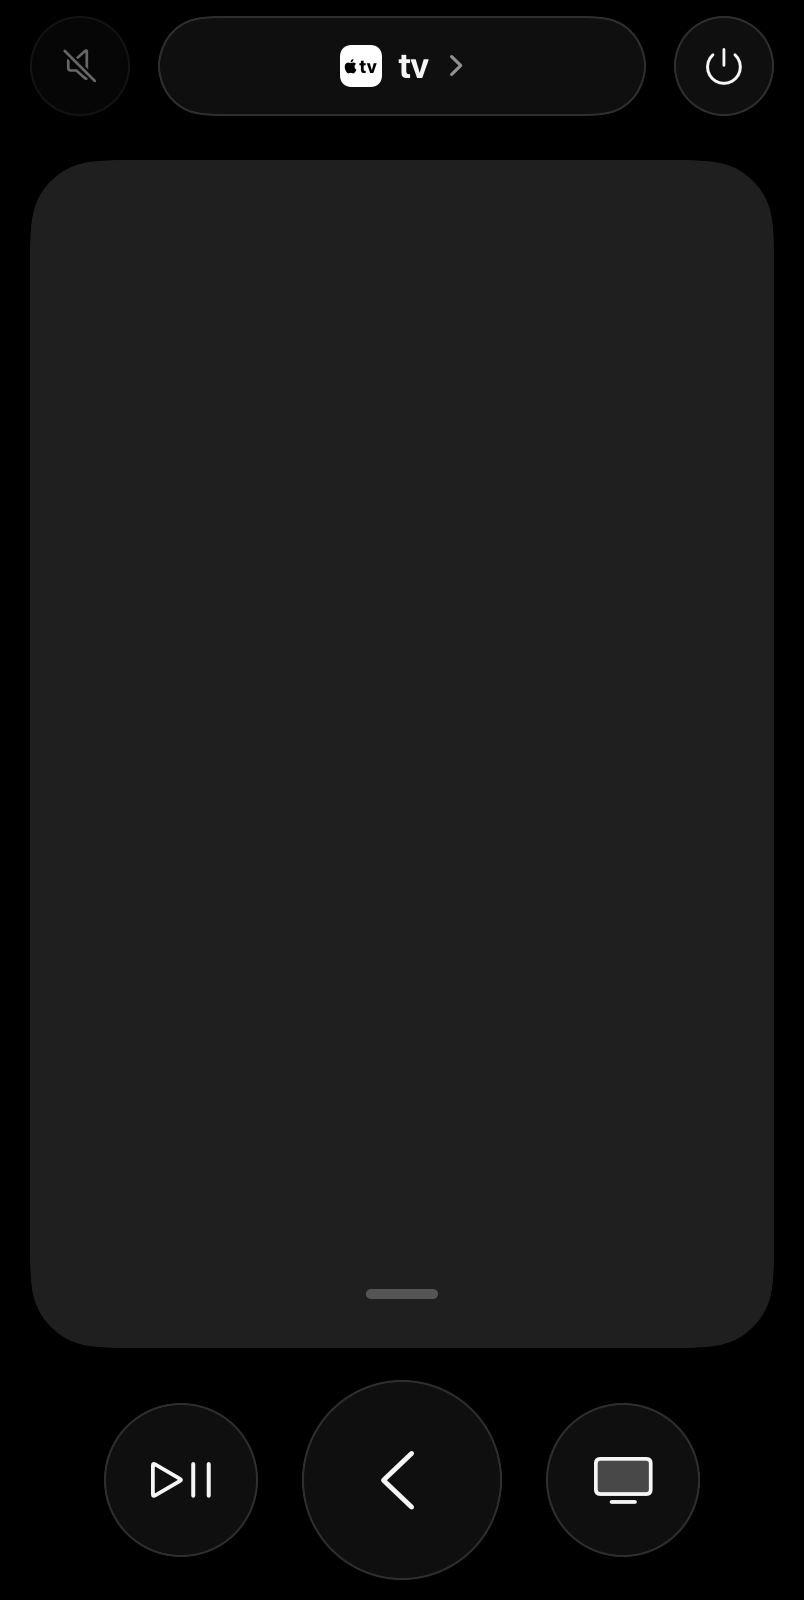
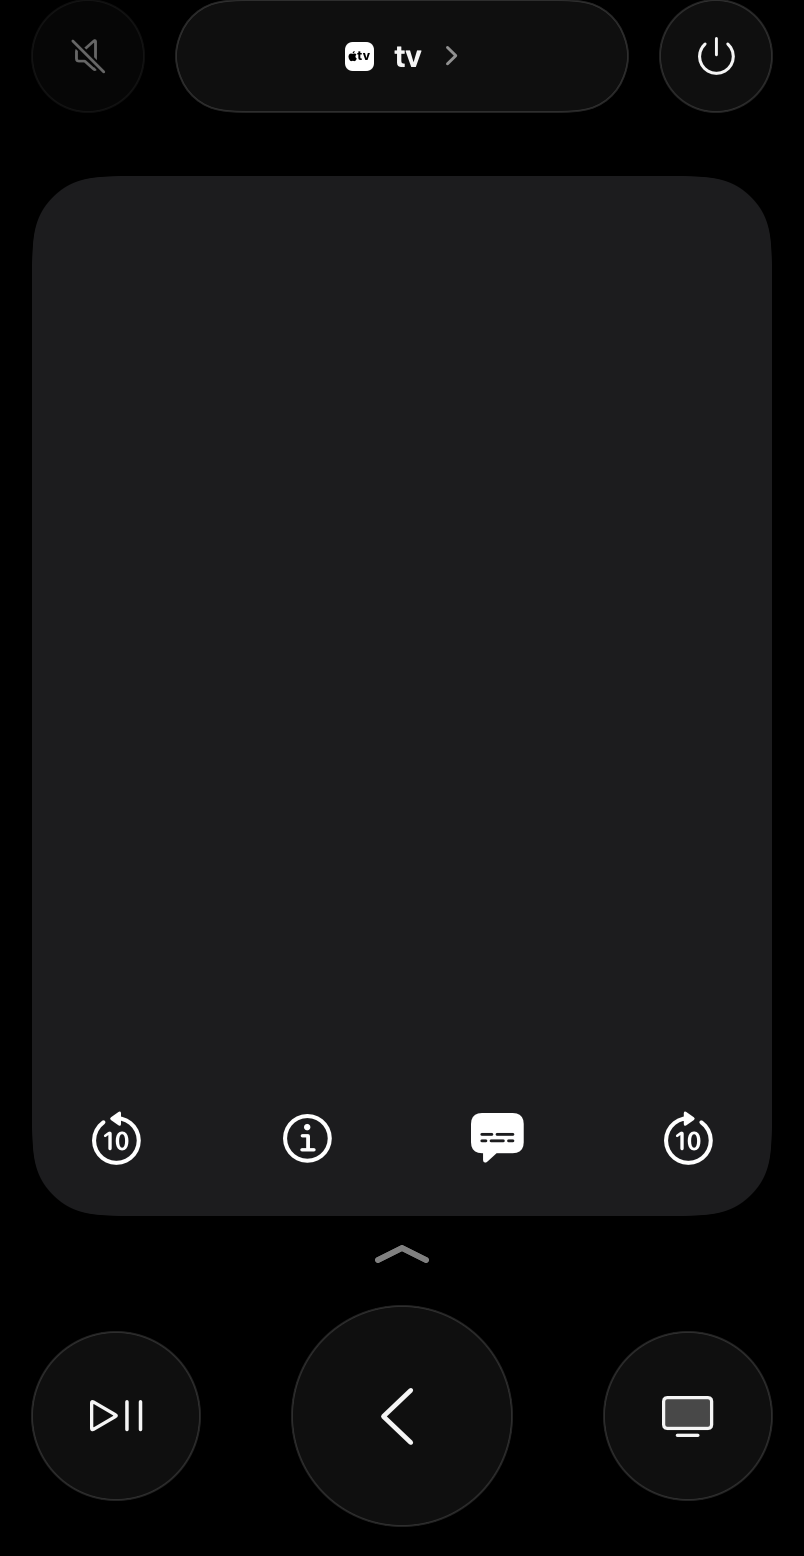
Match the Remote app layout and move playback controls onto the pad
Sizes and spacing now follow an iOS 27 Remote app screenshot, measured
to within a point: 56 pt top controls 16 pt apart, a smaller TV badge
and 15 pt device name, a 32 pt gap above a #1C1C1E touch surface, and
84 / 110 / 84 pt bottom buttons spread edge to edge.

Skip back, info, subtitles and skip forward are now plain glyphs along
the bottom of the touch surface instead of a row of circles below it.
They keep their places and dim when the player doesn't support them.
Info sends a down press to open the player's info panel. Taps beside
the icons still reach Apple TV.

The README preview is re-rendered with the new layout.

diff --git a/native/TVGlow/Views/ContentView.swift b/native/TVGlow/Views/ContentView.swift
@@ -24,15 +24,14 @@ struct ContentView: View {
 
     var body: some View {
         VStack(spacing: 0) {
-            topBar.padding(.bottom, 22)
-            AppleRemoteCard(remote: remote, showDevices: { showingDevices = true }) { statusText }
+            topBar.padding(.bottom, 32)
+            AppleRemoteCard(remote: remote, showDevices: { showingDevices = true }) { statusText } controls: { playbackBar }
                 .frame(maxHeight: .infinity)
-            if showsPlayback { playbackControls.padding(.top, 12) }
             levels
-            bottomButtons.padding(.top, 12)
+            bottomButtons.padding(.top, 11)
         }
-        .animation(.snappy(duration: 0.35), value: showsPlayback)
-        .padding(.horizontal, 15).padding(.top, 8).padding(.bottom, 10)
+        .animation(.easeInOut(duration: 0.3), value: showsPlayback)
+        .padding(.horizontal, 16).padding(.bottom, 15)
         .frame(maxWidth: 520).frame(maxWidth: .infinity, maxHeight: .infinity)
         .background { Color.black.ignoresSafeArea() }
         .foregroundStyle(GlowTheme.ink).tint(GlowTheme.accent).preferredColorScheme(.dark)
@@ -67,8 +66,8 @@ struct ContentView: View {
     }
 
     private var topBar: some View {
-        GlassGroup(spacing: 14) { HStack(spacing: 14) {
-            CircleButton(symbol: store.muted ? "speaker.slash.fill" : "speaker.slash", diameter: 50, highlighted: store.muted) {
+        GlassGroup(spacing: 16) { HStack(spacing: 16) {
+            CircleButton(symbol: store.muted ? "speaker.slash.fill" : "speaker.slash", diameter: 56, glyph: 18.5, highlighted: store.muted) {
                 feedback += 1
                 Task { await store.toggleMute() }
             }
@@ -78,22 +77,22 @@ struct ContentView: View {
             .accessibilityLabel(store.muted ? "Unmute Sonos" : "Mute Sonos").accessibilityIdentifier("muteButton")
 
             Button { showingDevices = true } label: {
-                HStack(spacing: 8) {
+                HStack(spacing: 10) {
                     TVBadge()
-                    Text(deviceName).font(.system(size: 17, weight: .semibold)).lineLimit(1)
+                    Text(deviceName).font(.system(size: 15, weight: .semibold)).lineLimit(1)
                         .contentTransition(.opacity)
                     if remote.snapshot.phase.isBusy {
                         ProgressView().controlSize(.small).tint(GlowTheme.muted)
                             .transition(.opacity.combined(with: .scale(scale: 0.6)))
                     } else {
-                        Image(systemName: "chevron.right").font(.system(size: 12, weight: .semibold)).foregroundStyle(GlowTheme.muted)
+                        Image(systemName: "chevron.right").font(.system(size: 11, weight: .semibold)).foregroundStyle(GlowTheme.muted)
                             .transition(.opacity.combined(with: .scale(scale: 0.6)))
                     }
                 }
                 .opacity(remote.connected ? 1 : 0.55)
                 .animation(.snappy(duration: 0.3), value: remote.snapshot.phase)
                 .animation(.easeInOut(duration: 0.3), value: deviceName)
-                .padding(.horizontal, 16).frame(maxWidth: .infinity).frame(height: 50)
+                .padding(.horizontal, 16).frame(maxWidth: .infinity).frame(height: 56)
                 .remoteGlass(Capsule(), interactive: true)
                 .contentShape(Capsule())
             }
@@ -104,7 +103,7 @@ struct ContentView: View {
                     .presentationCompactAdaptation(.popover)
             }
 
-            CircleButton(symbol: "power", diameter: 50, pulsing: store.tvPowerBusy, action: togglePower)
+            CircleButton(symbol: "power", diameter: 56, glyph: 18.5, pulsing: store.tvPowerBusy, action: togglePower)
                 .disabled(store.tvPowerBusy)
                 .contextMenu {
                     Button("Turn On TV", systemImage: "power") { powerOn() }
@@ -172,40 +171,44 @@ struct ContentView: View {
     private var playback: AppleRemotePlayback { remote.snapshot.playback }
     private var showsPlayback: Bool { remote.connected && playback.hasControls }
 
-    /// Like the Remote app: while a show is loaded, skip back · subtitles · skip forward appear
-    /// under the touch surface. Each button is shown only when the player on Apple TV supports it.
-    private var playbackControls: some View {
-        GlassGroup(spacing: 22) {
-            HStack(spacing: 22) {
-                if playback.canSkipBackward {
-                    skipButton(forward: false, seconds: playback.skipBackwardInterval)
+    /// Like the Remote app: while a show is loaded, skip back · info · subtitles · skip forward sit
+    /// along the bottom of the touch surface. The four keep their places; a control the player
+    /// on Apple TV doesn't offer is dimmed.
+    @ViewBuilder
+    private var playbackBar: some View {
+        if showsPlayback {
+            HStack(spacing: 0) {
+                skipButton(forward: false, seconds: playback.skipBackwardInterval, enabled: playback.canSkipBackward)
+                Spacer(minLength: 0)
+                PadIconButton(symbol: "info.circle") {
+                    feedback += 1
+                    remote.showInfo()
                 }
-                if !playback.subtitles.isEmpty {
-                    CircleButton(symbol: playback.subtitlesOn ? "captions.bubble.fill" : "captions.bubble", diameter: 56, glyph: 21,
-                                 highlighted: playback.subtitlesOn, pulsing: remote.subtitlesPending) {
-                        feedback += 1
-                        remote.toggleSubtitles()
-                    }
-                    .contextMenu { subtitleMenu }
-                    .accessibilityLabel(playback.subtitlesOn ? "Turn subtitles off" : "Turn subtitles on")
-                    .help("Subtitles (touch and hold to choose a language)").accessibilityIdentifier("subtitlesButton")
+                .accessibilityLabel("Show info").help("Show info").accessibilityIdentifier("infoButton")
+                Spacer(minLength: 0)
+                PadIconButton(symbol: playback.subtitlesOn ? "captions.bubble.fill" : "captions.bubble", pulsing: remote.subtitlesPending) {
+                    feedback += 1
+                    remote.toggleSubtitles()
                 }
-                if playback.canSkipForward {
-                    skipButton(forward: true, seconds: playback.skipForwardInterval)
-                }
+                .disabled(playback.subtitles.isEmpty)
+                .contextMenu { subtitleMenu }
+                .accessibilityLabel(playback.subtitlesOn ? "Turn subtitles off" : "Turn subtitles on")
+                .help("Subtitles (touch and hold to choose a language)").accessibilityIdentifier("subtitlesButton")
+                Spacer(minLength: 0)
+                skipButton(forward: true, seconds: playback.skipForwardInterval, enabled: playback.canSkipForward)
             }
-            .animation(.snappy(duration: 0.3), value: playback.subtitles.isEmpty)
+            .padding(.horizontal, 14)
+            .transition(.opacity)
         }
-        .frame(maxWidth: .infinity)
-        .transition(.opacity.combined(with: .scale(scale: 0.9, anchor: .top)))
     }
 
-    private func skipButton(forward: Bool, seconds: Double) -> some View {
+    private func skipButton(forward: Bool, seconds: Double, enabled: Bool) -> some View {
         let title = "Skip \(forward ? "forward" : "back") \(Int(seconds.rounded())) seconds"
-        return CircleButton(symbol: AppleRemotePlayback.skipSymbol(forward: forward, seconds: seconds), diameter: 56, glyph: 21) {
+        return PadIconButton(symbol: AppleRemotePlayback.skipSymbol(forward: forward, seconds: seconds)) {
             feedback += 1
             remote.skip(forward: forward)
         }
+        .disabled(!enabled)
         .accessibilityLabel(title).help(title).accessibilityIdentifier(forward ? "skipForward" : "skipBackward")
     }
 
@@ -306,11 +309,14 @@ struct ContentView: View {
     // MARK: Bottom buttons
 
     private var bottomButtons: some View {
+        // Spread edge to edge like the Remote app.
         GlassGroup(spacing: 22) {
-            HStack(spacing: 22) {
-                remoteButton("Play / pause", symbol: "playpause", command: .playPause, diameter: 77, glyph: 24)
-                remoteButton("Back", symbol: "chevron.left", command: .back, diameter: 100, glyph: 36)
-                remoteButton("Home", symbol: "tv", command: .home, diameter: 77, glyph: 24)
+            HStack(spacing: 0) {
+                remoteButton("Play / pause", symbol: "playpause", command: .playPause, diameter: 84, glyph: 21)
+                Spacer(minLength: 12)
+                remoteButton("Back", symbol: "chevron.left", command: .back, diameter: 110, glyph: 35)
+                Spacer(minLength: 12)
+                remoteButton("Home", symbol: "tv", command: .home, diameter: 84, glyph: 21)
             }
         }
         .disabled(!remote.connected).opacity(remote.connected ? 1 : 0.4)

diff --git a/native/TVGlow/Views/Theme.swift b/native/TVGlow/Views/Theme.swift
@@ -68,6 +68,8 @@ struct DeviceMessage: View {
 enum RemoteChrome {
     static let fill = Color(white: 0.06)
     static let pressed = Color(white: 0.16)
+    /// The Remote app's touch surface (#1C1C1E).
+    static let surface = Color(red: 28 / 255, green: 28 / 255, blue: 30 / 255)
     static let stroke = Color.white.opacity(0.13)
     static let press = Animation.spring(response: 0.28, dampingFraction: 0.62)
     /// Opens and closes the level bars with a rubbery bounce. `velocity` carries a released
@@ -173,13 +175,44 @@ struct BottomEdgeClip: Shape {
 /// The small white Apple TV app badge shown in the device capsule.
 struct TVBadge: View {
     var body: some View {
-        HStack(spacing: 0.5) {
-            Image(systemName: "applelogo").font(.system(size: 7.5, weight: .bold))
-            Text("tv").font(.system(size: 9, weight: .bold))
+        HStack(spacing: 0.3) {
+            Image(systemName: "applelogo").font(.system(size: 5.3, weight: .bold))
+            Text("tv").font(.system(size: 6.4, weight: .bold))
         }
-        .foregroundStyle(.black).frame(width: 21, height: 21)
-        .background(.white, in: RoundedRectangle(cornerRadius: 5.5, style: .continuous))
+        .foregroundStyle(.black).frame(width: 14.5, height: 14.5)
+        .background(.white, in: RoundedRectangle(cornerRadius: 3.8, style: .continuous))
         .accessibilityHidden(true)
+    }
+}
+
+/// A plain white glyph on the touch surface, like the Remote app's playback controls.
+/// Dimmed when disabled; its tap target stays small so taps beside it still reach Apple TV.
+struct PadIconButton: View {
+    let symbol: String
+    var pulsing = false
+    let action: () -> Void
+
+    var body: some View {
+        Button(action: action) {
+            Image(systemName: symbol).font(.system(size: 24.5))
+                .contentTransition(.symbolEffect(.replace))
+                .symbolEffect(.pulse, options: .repeating, isActive: pulsing)
+                .animation(.snappy(duration: 0.25), value: symbol)
+                .frame(width: 56, height: 50).contentShape(Rectangle())
+        }
+        .buttonStyle(PadIconStyle())
+    }
+}
+
+struct PadIconStyle: ButtonStyle {
+    @Environment(\.isEnabled) private var isEnabled
+
+    func makeBody(configuration: Configuration) -> some View {
+        configuration.label
+            .foregroundStyle(.white.opacity(isEnabled ? (configuration.isPressed ? 0.45 : 1) : 0.4))
+            .scaleEffect(configuration.isPressed ? 0.88 : 1)
+            .animation(RemoteChrome.press, value: configuration.isPressed)
+            .animation(.easeInOut(duration: 0.25), value: isEnabled)
     }
 }
 

diff --git a/native/TVGlow/Views/AppleRemoteCard.swift b/native/TVGlow/Views/AppleRemoteCard.swift
@@ -1,12 +1,13 @@
 import SwiftUI
 
-/// The large touch surface of the Remote app. Swipe to move, tap to select. Every touch on it
-/// belongs to Apple TV: nothing else on the surface reacts to touches.
-/// `accessory` is pinned to the bottom edge of the surface and is display-only (status text).
-struct AppleRemoteCard<Accessory: View>: View {
+/// The large touch surface of the Remote app. Swipe to move, tap to select. Touches belong to
+/// Apple TV, except on `controls`: the playback buttons along the bottom edge, as in the Remote app.
+/// `accessory` sits above them and is display-only (status text).
+struct AppleRemoteCard<Accessory: View, Controls: View>: View {
     @ObservedObject var remote: AppleRemoteStore
     let showDevices: () -> Void
     @ViewBuilder let accessory: () -> Accessory
+    @ViewBuilder let controls: () -> Controls
     @FocusState private var padFocused: Bool
     @State private var navigation = RemoteTouchNavigation()
     @State private var feedback = 0
@@ -20,13 +21,18 @@ struct AppleRemoteCard<Accessory: View>: View {
 
     var body: some View {
         ZStack {
-            shape.fill(Color(white: 0.122))
+            shape.fill(RemoteChrome.surface)
             effects.clipShape(shape).allowsHitTesting(false)
             touchLayer
             if !remote.connected {
                 disconnectedContent.transition(.opacity.combined(with: .scale(scale: 0.94)))
             }
-            VStack { Spacer(minLength: 0); accessory() }.padding(14).allowsHitTesting(false)
+            VStack(spacing: 6) {
+                Spacer(minLength: 0)
+                accessory().padding(.horizontal, 14).allowsHitTesting(false)
+                controls()
+            }
+            .padding(.bottom, 14)
         }
         .overlay { shape.strokeBorder(.white.opacity(padFocused ? 0.16 : 0), lineWidth: 1) }
         .onGeometryChange(for: CGSize.self) { $0.size } action: { size = $0 }

diff --git a/native/TVGlowTests/PlaybackTests.swift b/native/TVGlowTests/PlaybackTests.swift
@@ -52,6 +52,18 @@ final class PlaybackTests: XCTestCase {
         XCTAssertEqual(driver.skips, [false], "nothing is queued while offline")
     }
 
+    func testInfoOpensThePlayerPanelOnlyWhileSomethingPlays() {
+        let driver = MockAppleRemoteDriver()
+        let store = connectedStore(driver, playback: AppleRemotePlayback())
+        defer { store.stop() }
+        store.showInfo()
+        XCTAssertTrue(driver.commands.isEmpty, "nothing loaded: no stray down press")
+        driver.snapshot.playback = showPlayback()
+        store.synchronize()
+        store.showInfo()
+        XCTAssertEqual(driver.commands, [.down])
+    }
+
     // MARK: Subtitles
 
     func testTurningSubtitlesOnPrefersTheLanguagePickedLastTime() {

diff --git a/native/TVGlow/Core/AppleRemoteStore.swift b/native/TVGlow/Core/AppleRemoteStore.swift
@@ -406,6 +406,12 @@ final class AppleRemoteStore: ObservableObject {
         notice = nil; hasError = false
     }
 
+    /// Opens the player's info panel, as swiping down on the Siri Remote does during playback.
+    func showInfo() {
+        guard snapshot.playback.active else { return }
+        press(.down)
+    }
+
     /// Turns subtitles off, or on in the language picked last time (else the device's language).
     func toggleSubtitles(now: Date = Date()) {
         let playback = snapshot.playback

diff --git a/native/README.md b/native/README.md
@@ -4,7 +4,7 @@ The macOS SwiftUI app controls Anna’s LG C1 OLED brightness and Sonos Arc Ultr
 
 ![Remote interface](docs/remote-interface.png)
 
-Interface preview rendered from the native SwiftUI views with fake devices at 402 × 800 points, matching the iPhone layout. On this Mac, native window automation returns `cgWindowNotFound`, so installed-window interaction still needs a manual check.
+Interface preview rendered from the native SwiftUI views with fake devices at 402 × 778 points (an iPhone screen without its safe areas), with a show playing and subtitles on. It uses the flat pre-26 chrome because SwiftUI's image renderer can't draw Liquid Glass. Sizes and spacing were measured from an iOS 27 Remote app screenshot and match it to within a point: 56 pt top controls, a 370 pt-wide #1C1C1E touch surface, and 84 / 110 / 84 pt bottom buttons spread edge to edge. On this Mac, native window automation returns `cgWindowNotFound`, so installed-window interaction still needs a manual check.
 
 The installed Mac app is `/Users/anna/Applications/TV Glow.app`. Open it from Finder, Spotlight or Launchpad. Click the sun in the menu bar for quick controls. **Connections** lets you update each device’s IP address or forget this app’s TV pairing.
 
@@ -46,7 +46,7 @@ After that one-time pairing, everything connects by itself: on launch and whenev
 
 Swipe or drag across the touch surface to navigate; tap to select. Longer drags repeat navigation, and releasing a swipe never selects an item. On Mac, click the pad to use arrow keys, Return, Space and Escape. Text entry opens automatically when a search/text field is focused on Apple TV. The top-left button mutes the Sonos. The top-right power button turns the TV off when it is connected and on otherwise; touch and hold (right-click on Mac) for explicit **Turn On TV** / **Turn Off TV**. Swipe up from the bottom edge of the touch surface (or tap its handle) to reveal Sonos volume and LG brightness (the sun opens the Night / Everyday / Bright presets) and a gear for **Connections**: device addresses, pairing and detailed connection status. Swipe down on them to hide them again. Sideways swipes along that edge still navigate. Sonos and brightness controls operate independently of the Apple TV connection.
 
-While a show or film is loaded on Apple TV, a row appears under the touch surface, as in the Remote app: **skip back**, **subtitles** and **skip forward**. Each button appears only when the playing app supports it, and the row disappears when playback stops. Skips use the app's preferred interval and fall back to 10 seconds. The skip glyph shows the interval. Apps that only accept absolute seeks get a seek to the current position ± that interval. Tap the subtitles button to turn subtitles off, or on in the language you picked last time (else your device language, else the app's default). Touch and hold (right-click on Mac) to choose a language or **Off**. The button turns white only after Apple TV reports that subtitles are on. It pulses while waiting for that readback. If the app hasn't changed the subtitles after 5 seconds, the remote says so. Forced subtitles (translated foreign-language lines only) don't count as subtitles being on. All of this comes from MRP's now-playing state: the app's supported commands, skip intervals and its language options (`includeLanguageOptions`, `enableLanguageOption` / `disableLanguageOption`). Reading it never sends a command. The skip and subtitle row still needs a check on a real show; unit tests use fakes.
+While a show or film is loaded on Apple TV, four controls appear along the bottom of the touch surface, as in the Remote app: **skip back**, **info**, **subtitles** and **skip forward**. They keep their places. A control the playing app doesn't support is dimmed. The row disappears when playback stops. Taps beside the icons still reach Apple TV. **Info** opens the player's info panel; it sends a down press, the same as swiping down. Skips use the app's preferred interval and fall back to 10 seconds. The skip glyph shows the interval. Apps that only accept absolute seeks get a seek to the current position ± that interval. Tap the subtitles button to turn subtitles off, or on in the language you picked last time (else your device language, else the app's default). Touch and hold (right-click on Mac) to choose a language or **Off**. The button turns white only after Apple TV reports that subtitles are on. It pulses while waiting for that readback. If the app hasn't changed the subtitles after 5 seconds, the remote says so. Forced subtitles (translated foreign-language lines only) don't count as subtitles being on. All of this comes from MRP's now-playing state: the app's supported commands, skip intervals and its language options (`includeLanguageOptions`, `enableLanguageOption` / `disableLanguageOption`). Reading it never sends a command. The skip and subtitle row still needs a check on a real show; unit tests use fakes.
 
 Menu-bar controls include Back, Play/Pause and Home after connecting. This is our own native remote using community Companion/MRP protocol implementations, rather than an embedded system iPhone Remote. Siri voice is not included. On iPhone, a Control Center button opens this remote (see below). The Dev app has paired successfully with Anna’s Apple TV named `tv`. Anna confirmed that the TV power-on action worked through the paired Apple TV. Navigation/playback/text commands still need separate user-visible checks; unit tests use fakes.
 
